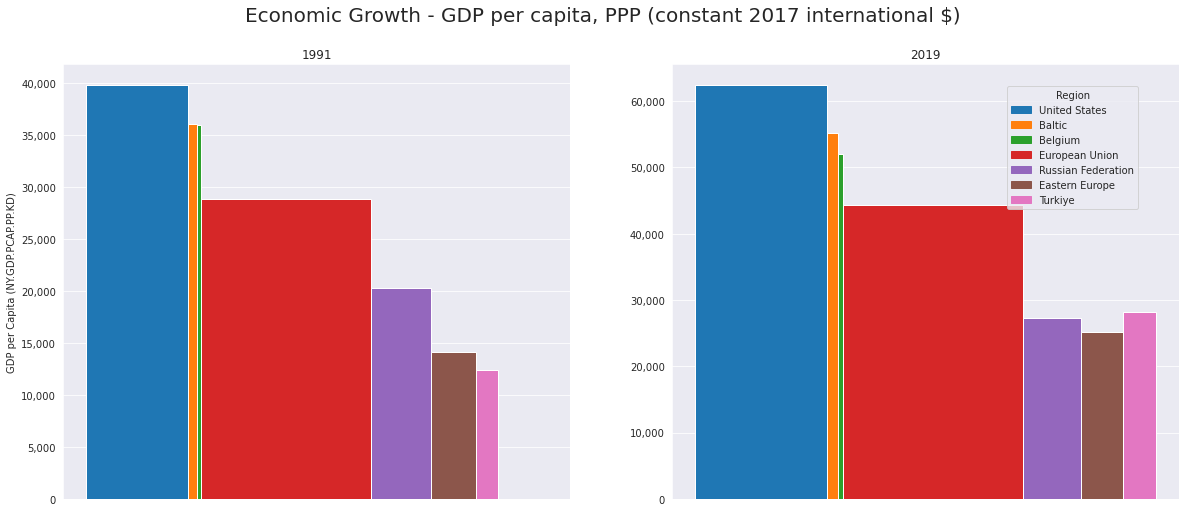
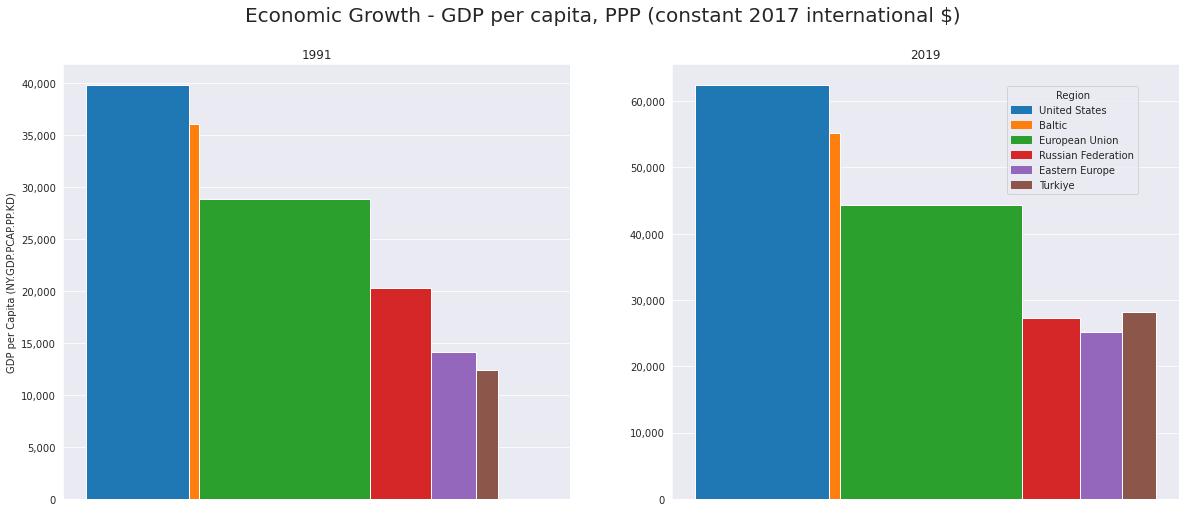
Add the ex-Soviet Europe Analysis

Changed region(s): [[0.6863, 0.25, 0.9983, 1.0], [0.156, 0.25, 0.4368, 1.0]]

diff --git a/economic-performance-in-the-neoliberal-era/.ipynb_checkpoints/README-checkpoint.md b/economic-performance-in-the-neoliberal-era/.ipynb_checkpoints/README-checkpoint.md
@@ -27,11 +27,41 @@ I thought that the visual was a great way to compare the before and now of econo
 My conclusion is nuanced: the era beginning in 1991 and ending in 2019 was an era of convergence. However, it was India, China and Turkiye that got the most from this
 convergence - among the countries. However, Japan and Russia fell backwards - relatively speaking - and America and Western Europe simply managed to keep their place.
 
-## Are We Really Seeing Convergence
+## Are We Really Seeing Convergence?
 
-World Bank data has a classification for high, middle and low income countries. You can see them in the chart below. I interpret this as a story of convergence.
+World Bank data has a classification for high, middle and low income countries. You can see them in the chart below. I interpret this as a story of convergence: A perfectly divergent world would have an "L" shape - a sharp box on the left, and a horizontal box at the bottom. A perfectly convergent
+world would have a one rectangle where no country or area is significantly higher than the others. As you can see, the world moved from
+a more divergent world to a more convergent world. I conclude that the neo-liberal era was partially successful in its mission.
 
 ![Analysis](convergence.png)
+
+## Explaining the Russian Aggression
+
+I can also extend the data to show the difference between Russia and the rest of Eastern Europe.
+
+![Analysis](exsoviet.png)
+
+I interpret this graph as follows: Right after the Soviet Era ended, if your average individual in Russia were to move to another country west of it,
+say, Poland, and occupy a similar spot on the income, they would perceive a decrease in their welfare, measured by their ability to purchase. However,
+as the neo-liberal era drew came close to its conclusion, if the average individual in Russia were to make the same move, they would not perceive a
+decrease in their welfare. Comparatively speaking, in 2019, Russia no longer had a better proposition than other European ex-Soviet countries for their
+average citizen.
+
+We could even speculate that this trend towards losing its appeal was one of the reasons why Russia decided to invade Ukraine. This line of thought
+is in line with the seminal paper by [Fearon (1999) - Rationalist Explanations for War](https://web.stanford.edu/group/fearon-research/cgi-bin/wordpress/wp-content/uploads/2013/10/Rationalist-Explanations-for-War.pdf)
+
+## What's Missing From This Analysis?
+
+This is an analysis done for personal enjoyment in the evenings, so, a lot. One of the gaps is that average GDP does not reflect income inequality.
+There is also no method in this analysis to understand the root causes of these changes.
+
+
+
+
+
+
+
+
 
 
 

diff --git a/economic-performance-in-the-neoliberal-era/README.md b/economic-performance-in-the-neoliberal-era/README.md
@@ -27,11 +27,41 @@ I thought that the visual was a great way to compare the before and now of econo
 My conclusion is nuanced: the era beginning in 1991 and ending in 2019 was an era of convergence. However, it was India, China and Turkiye that got the most from this
 convergence - among the countries. However, Japan and Russia fell backwards - relatively speaking - and America and Western Europe simply managed to keep their place.
 
-## Are We Really Seeing Convergence
+## Are We Really Seeing Convergence?
 
-World Bank data has a classification for high, middle and low income countries. You can see them in the chart below. I interpret this as a story of convergence.
+World Bank data has a classification for high, middle and low income countries. You can see them in the chart below. I interpret this as a story of convergence: A perfectly divergent world would have an "L" shape - a sharp box on the left, and a horizontal box at the bottom. A perfectly convergent
+world would have a one rectangle where no country or area is significantly higher than the others. As you can see, the world moved from
+a more divergent world to a more convergent world. I conclude that the neo-liberal era was partially successful in its mission.
 
 ![Analysis](convergence.png)
+
+## Explaining the Russian Aggression
+
+I can also extend the data to show the difference between Russia and the rest of Eastern Europe.
+
+![Analysis](exsoviet.png)
+
+I interpret this graph as follows: Right after the Soviet Era ended, if your average individual in Russia were to move to another country west of it,
+say, Poland, and occupy a similar spot on the income, they would perceive a decrease in their welfare, measured by their ability to purchase. However,
+as the neo-liberal era drew came close to its conclusion, if the average individual in Russia were to make the same move, they would not perceive a
+decrease in their welfare. Comparatively speaking, in 2019, Russia no longer had a better proposition than other European ex-Soviet countries for their
+average citizen.
+
+We could even speculate that this trend towards losing its appeal was one of the reasons why Russia decided to invade Ukraine. This line of thought
+is in line with the seminal paper by [Fearon (1999) - Rationalist Explanations for War](https://web.stanford.edu/group/fearon-research/cgi-bin/wordpress/wp-content/uploads/2013/10/Rationalist-Explanations-for-War.pdf)
+
+## What's Missing From This Analysis?
+
+This is an analysis done for personal enjoyment in the evenings, so, a lot. One of the gaps is that average GDP does not reflect income inequality.
+There is also no method in this analysis to understand the root causes of these changes.
+
+
+
+
+
+
+
+
 
 
 
